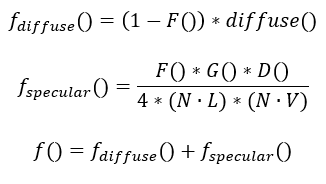
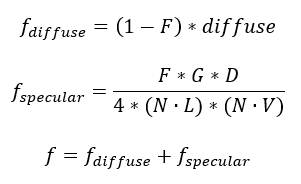
Remove unnecessary parenthesis

diff --git a/specification/2.0/README.md b/specification/2.0/README.md
@@ -3835,15 +3835,15 @@ The core lighting equation the sample uses is the Schlick BRDF model from [An In
 
 Below are common implementations for the various terms found in the lighting equation.
 
-### Surface Reflection Ratio (F())
+### Surface Reflection Ratio (F)
 
-**Frensel Schlick**
+**Fresnel Schlick**
 
-Simplified implementation of fresnel from [An Inexpensive BRDF Model for Physically based Rendering](https://www.cs.virginia.edu/~jdl/bib/appearance/analytic%20models/schlick94b.pdf) by Christophe Schlick.
+Simplified implementation of Fresnel from [An Inexpensive BRDF Model for Physically based Rendering](https://www.cs.virginia.edu/~jdl/bib/appearance/analytic%20models/schlick94b.pdf) by Christophe Schlick.
 
 ![](figures/lightingF.PNG)
 
-### Geometric Occlusion (G())
+### Geometric Occlusion (G)
 
 **Schlick**
 
@@ -3851,7 +3851,7 @@ Implementation of microfacet occlusion from [An Inexpensive BRDF Model for Physi
 
 ![](figures/lightingG.PNG)
 
-### Microfaced Distribution (D())
+### Microfaced Distribution (D)
 
 **Trowbridge-Reitz**
 
@@ -3859,7 +3859,7 @@ Implementation of microfaced distrubtion from [Average Irregularity Representati
 
 ![](figures/lightingD.PNG)
 
-### Diffuse Term (diffuse())
+### Diffuse Term (diffuse)
 
 **Lambert**
 
